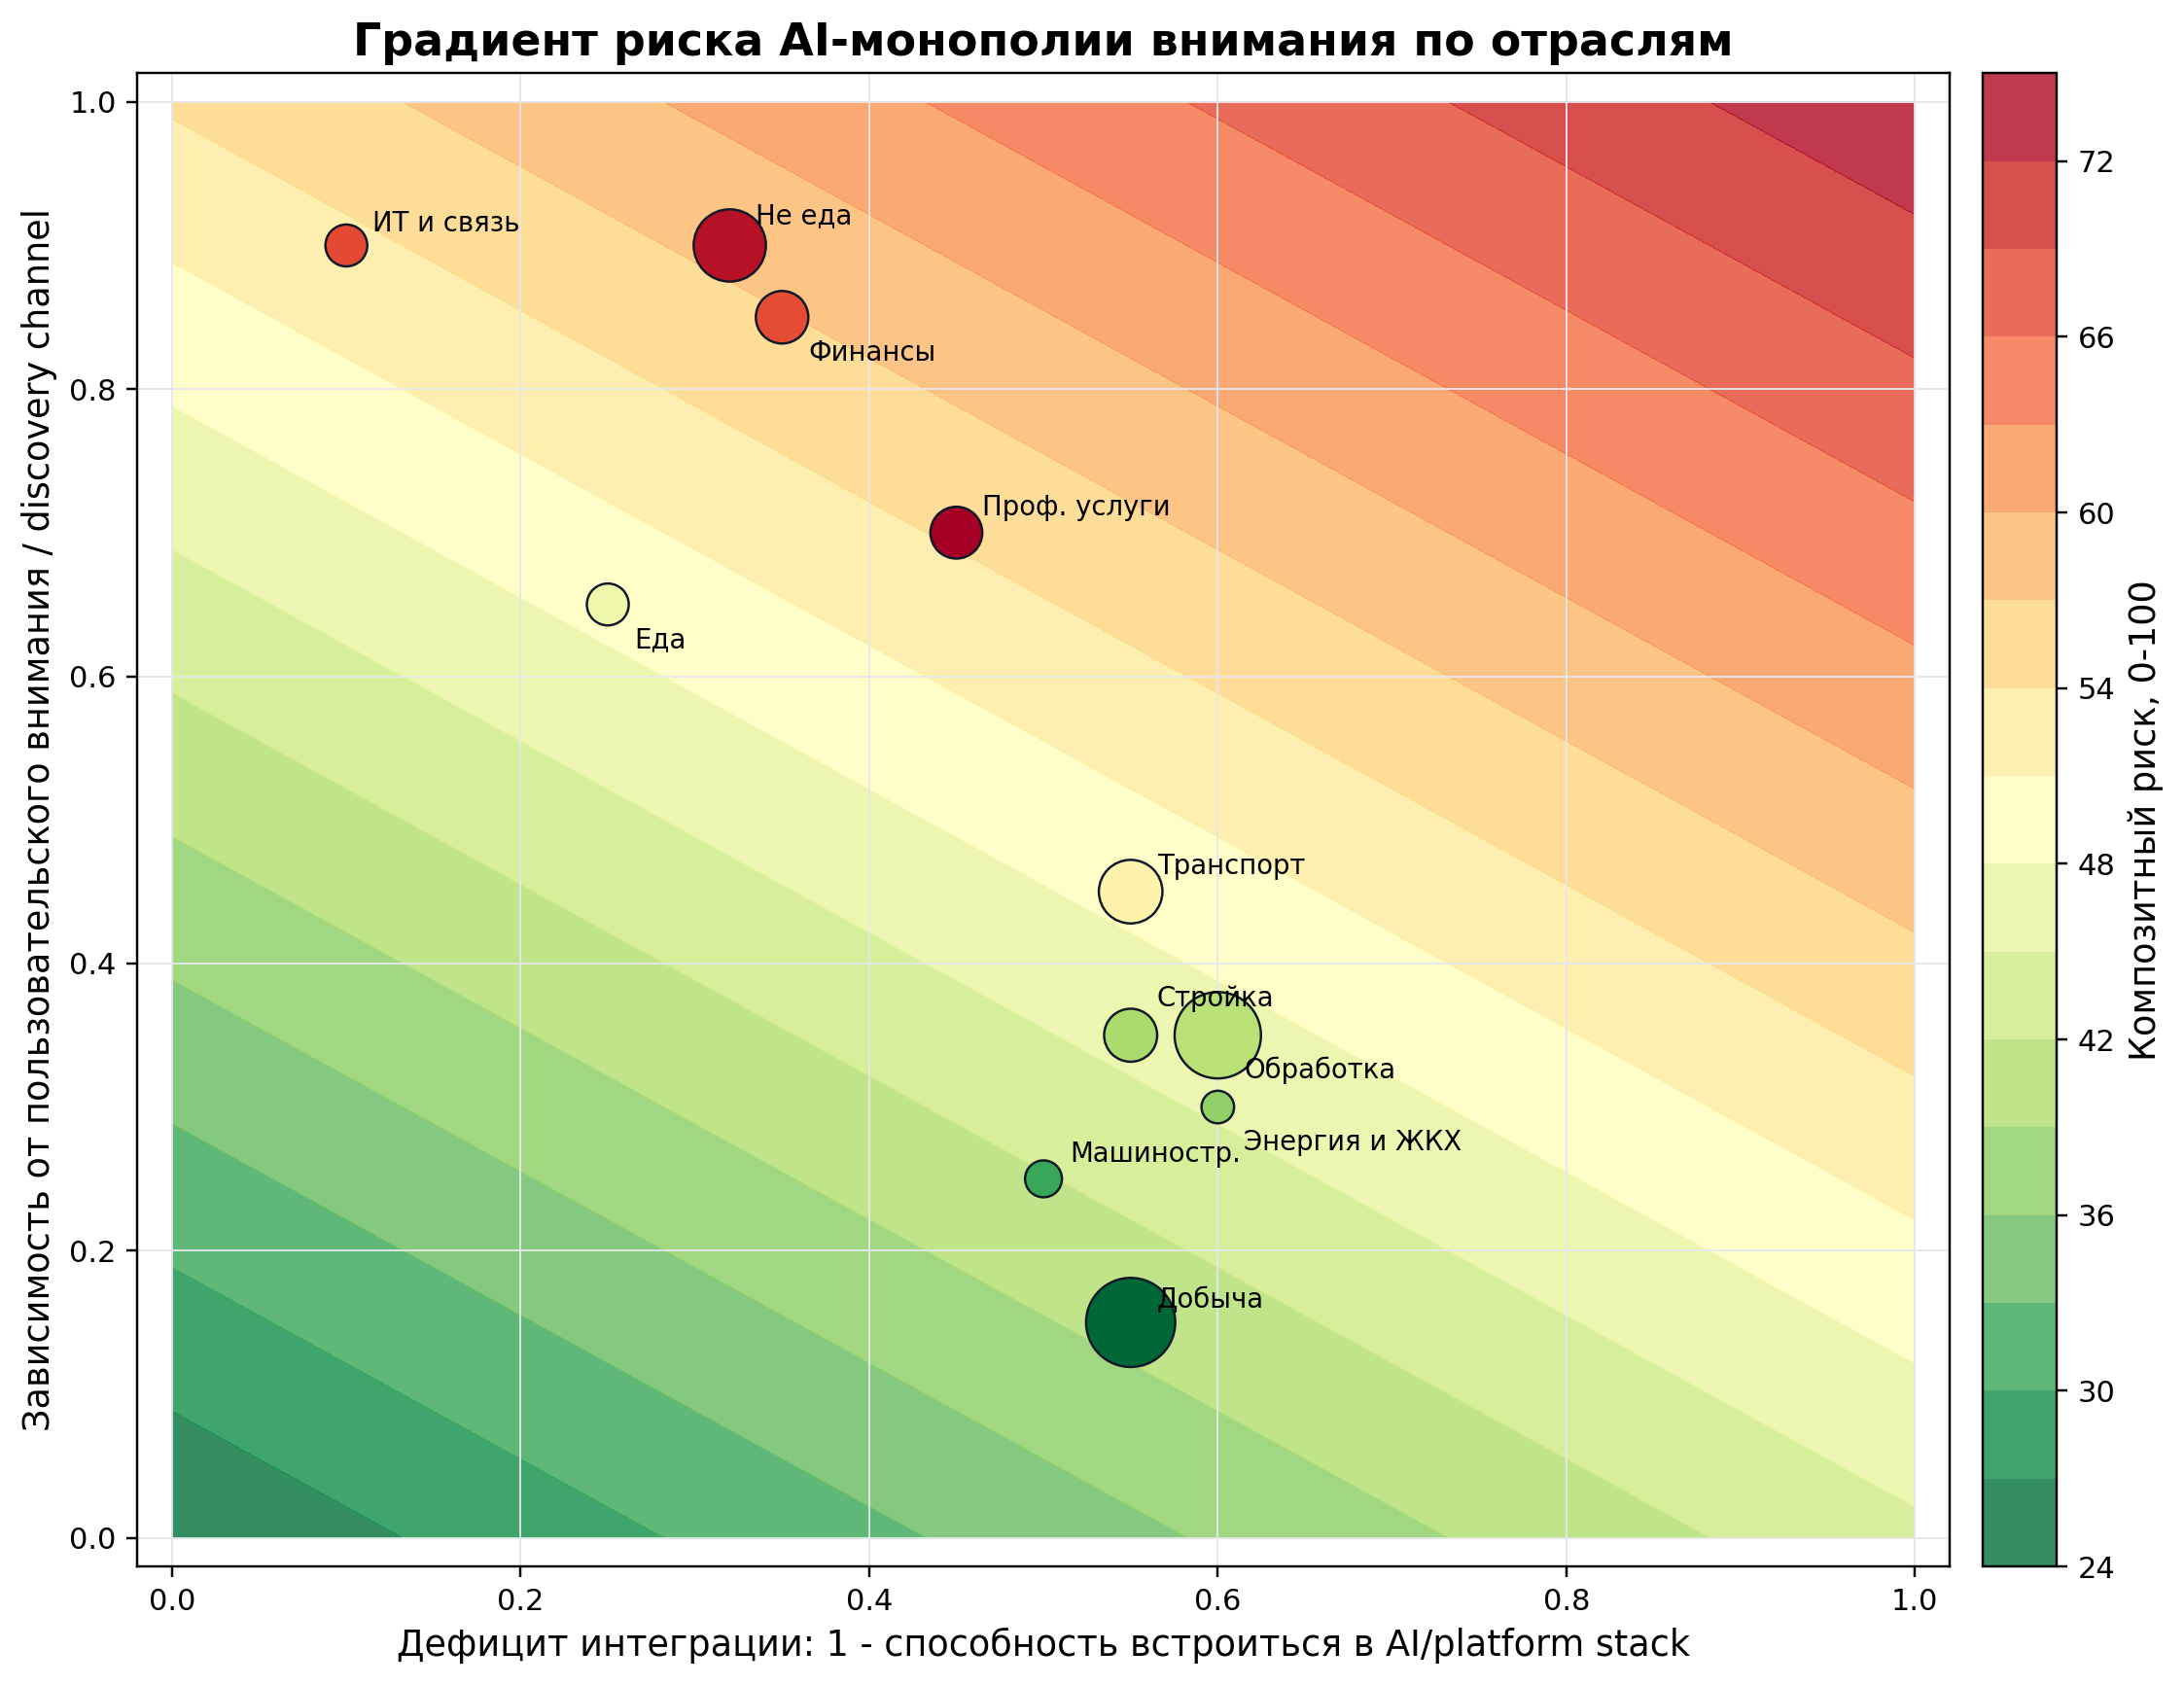
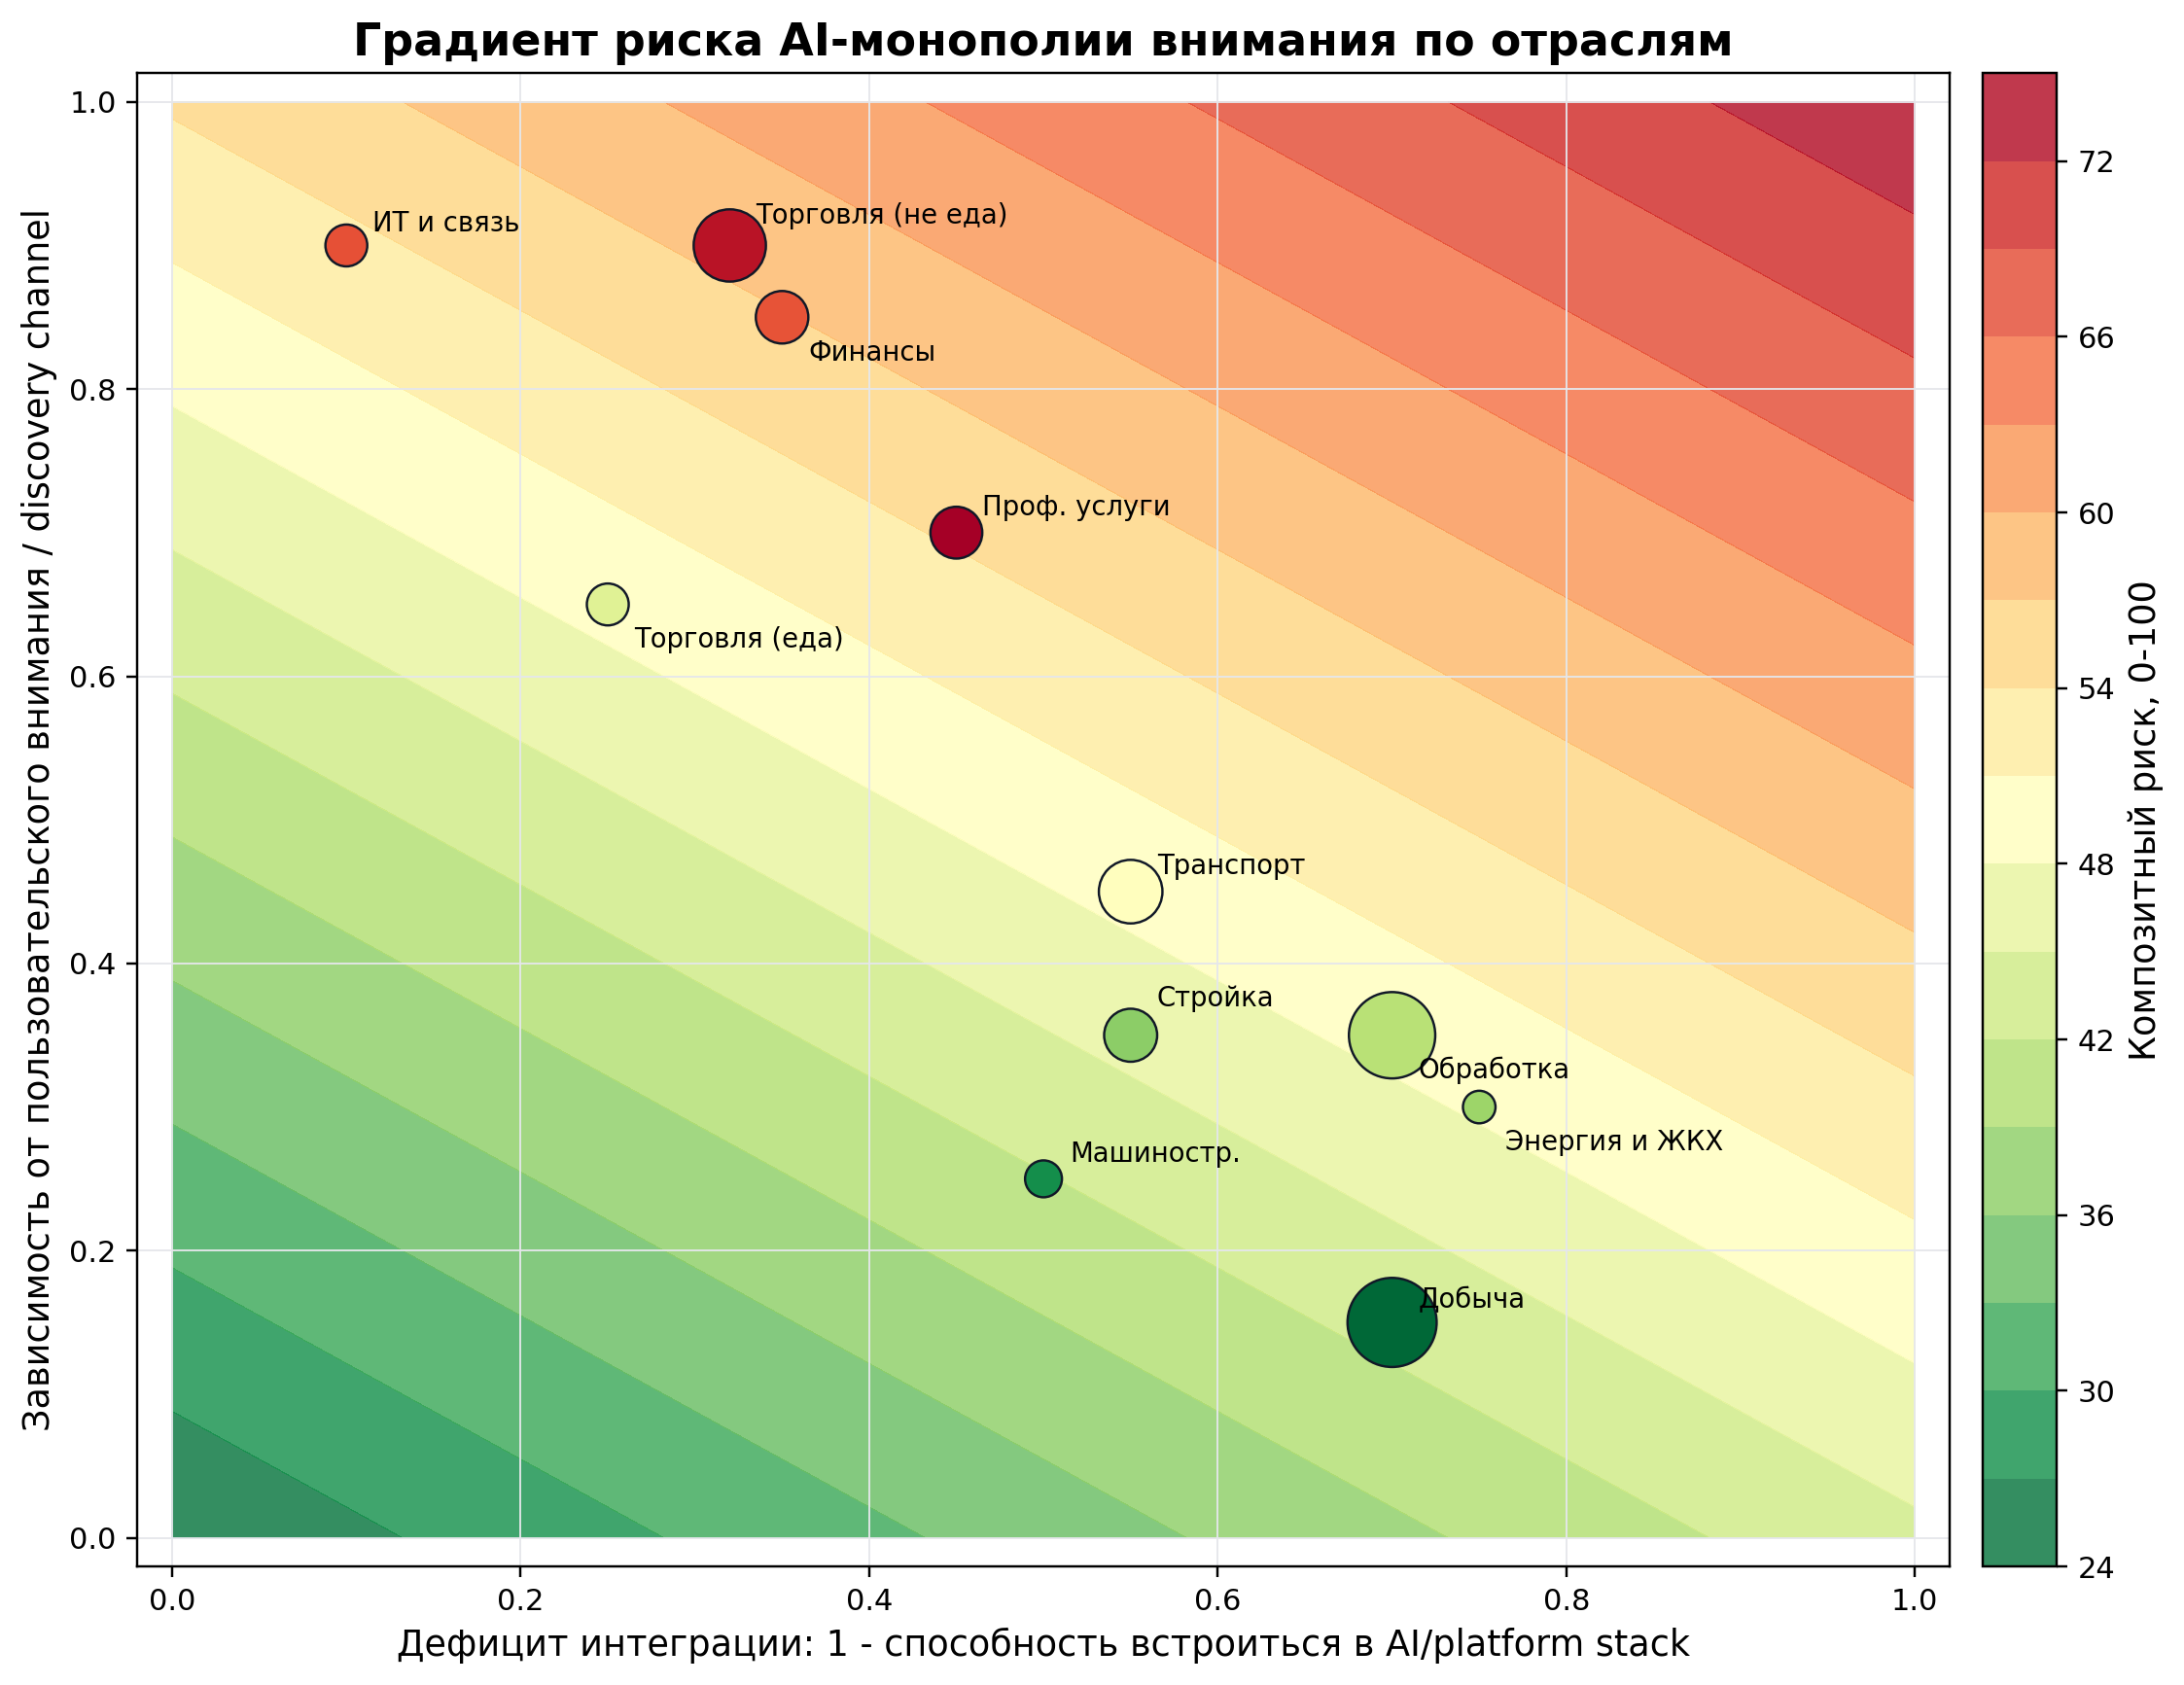
Tune trade labels and digital readiness priors

diff --git a/scripts/io_klems_attention.py b/scripts/io_klems_attention.py
@@ -38,8 +38,8 @@ SECTOR_LABELS = {
     "DE": "Энергия и ЖКХ",
     "F": "Стройка",
     "G": "Торговля",
-    "G_food": "Еда",
-    "G_nonfood": "Не еда",
+    "G_food": "Торговля (еда)",
+    "G_nonfood": "Торговля (не еда)",
     "H": "Транспорт",
     "J": "ИТ и связь",
     "K": "Финансы",

diff --git a/docs/attention_monopoly_scenario.md b/docs/attention_monopoly_scenario.md
@@ -38,30 +38,30 @@ VA_s \bar A D_s I_s c_s \rho
 | sector_id | sector_name_ru | attention_dependency | integration_capacity | platform_markup_mid | vulnerable_sme_share | gatekeeping_exposure | attention_risk_score |
 | --- | --- | --- | --- | --- | --- | --- | --- |
 | M | Профессиональные и научные услуги | 0.700 | 0.550 | 0.220 | 0.650 | 0.700 | 69.880 |
-| G_nonfood | Торговля: непродовольственные товары | 0.900 | 0.680 | 0.120 | 0.800 | 0.850 | 68.234 |
+| G_nonfood | Торговля (не еда) | 0.900 | 0.680 | 0.120 | 0.800 | 0.850 | 68.234 |
 | J | ИТ и связь | 0.900 | 0.900 | 0.180 | 0.200 | 0.800 | 63.653 |
 | K | Финансы и страхование | 0.850 | 0.650 | 0.060 | 0.450 | 0.900 | 63.471 |
 | H | Транспорт и логистика | 0.450 | 0.450 | 0.120 | 0.550 | 0.550 | 49.748 |
-| G_food | Торговля: продукты питания | 0.650 | 0.750 | 0.070 | 0.450 | 0.550 | 46.425 |
-| C | Обрабатывающая промышленность без машиностроения | 0.350 | 0.400 | 0.080 | 0.450 | 0.350 | 41.106 |
+| G_food | Торговля (еда) | 0.650 | 0.750 | 0.070 | 0.450 | 0.550 | 46.425 |
+| C | Обрабатывающая промышленность без машиностроения | 0.350 | 0.300 | 0.080 | 0.450 | 0.350 | 43.106 |
+| DE | Энергетика и ЖКХ | 0.300 | 0.250 | 0.050 | 0.300 | 0.450 | 41.061 |
 | F | Строительство | 0.350 | 0.450 | 0.080 | 0.550 | 0.350 | 40.021 |
-| DE | Энергетика и ЖКХ | 0.300 | 0.400 | 0.050 | 0.300 | 0.450 | 38.061 |
 | C_mach | Машиностроение (ОКВЭД 26–30) | 0.250 | 0.500 | 0.060 | 0.350 | 0.300 | 32.743 |
 
 ## 3. Net GVA Shift
 
 | sector_id | sector_name_ru | platform_access_fee_bn_rub | cac_saving_va_gain_bn_rub | attention_gva_shift_bn_rub | capital_reallocation_pressure_bn_rub |
 | --- | --- | --- | --- | --- | --- |
+| C | Обрабатывающая промышленность без машиностроения | 120.481 | 35.610 | -84.871 | 156.091 |
 | M | Профессиональные и научные услуги | 206.458 | 125.126 | -81.332 | 331.585 |
 | H | Транспорт и логистика | 114.938 | 50.559 | -64.379 | 165.497 |
-| C | Обрабатывающая промышленность без машиностроения | 103.269 | 47.480 | -55.789 | 150.749 |
 | F | Строительство | 44.617 | 23.551 | -21.065 | 68.168 |
-| B | Добыча полезных ископаемых | 22.230 | 15.157 | -7.073 | 37.388 |
-| DE | Энергетика и ЖКХ | 11.393 | 5.843 | -5.550 | 17.236 |
+| B | Добыча полезных ископаемых | 28.293 | 10.105 | -18.189 | 38.398 |
+| DE | Энергетика и ЖКХ | 14.241 | 3.652 | -10.590 | 17.893 |
 | C_mach | Машиностроение (ОКВЭД 26–30) | 11.420 | 9.869 | -1.551 | 21.290 |
-| G_food | Торговля: продукты питания | 21.915 | 116.592 | 94.677 | 138.507 |
+| G_food | Торговля (еда) | 21.915 | 116.592 | 94.677 | 138.507 |
 | K | Финансы и страхование | 47.677 | 203.548 | 155.871 | 251.226 |
-| G_nonfood | Торговля: непродовольственные товары | 192.861 | 531.259 | 338.399 | 724.120 |
+| G_nonfood | Торговля (не еда) | 192.861 | 531.259 | 338.399 | 724.120 |
 
 ## 4. Deadweight Loss
 
@@ -69,12 +69,12 @@ VA_s \bar A D_s I_s c_s \rho
 | --- | --- | --- | --- | --- |
 | M | Профессиональные и научные услуги | 0.220 | 0.700 | 54.752 |
 | J | ИТ и связь | 0.180 | 0.900 | 32.282 |
-| G_nonfood | Торговля: непродовольственные товары | 0.120 | 0.900 | 27.121 |
+| G_nonfood | Торговля (не еда) | 0.120 | 0.900 | 27.121 |
 | H | Транспорт и логистика | 0.120 | 0.450 | 10.921 |
 | C | Обрабатывающая промышленность без машиностроения | 0.080 | 0.350 | 4.451 |
 | F | Строительство | 0.080 | 0.350 | 1.963 |
 | K | Финансы и страхование | 0.060 | 0.850 | 1.691 |
-| G_food | Торговля: продукты питания | 0.070 | 0.650 | 1.658 |
+| G_food | Торговля (еда) | 0.070 | 0.650 | 1.658 |
 | B | Добыча полезных ископаемых | 0.050 | 0.150 | 0.323 |
 | C_mach | Машиностроение (ОКВЭД 26–30) | 0.060 | 0.250 | 0.305 |
 